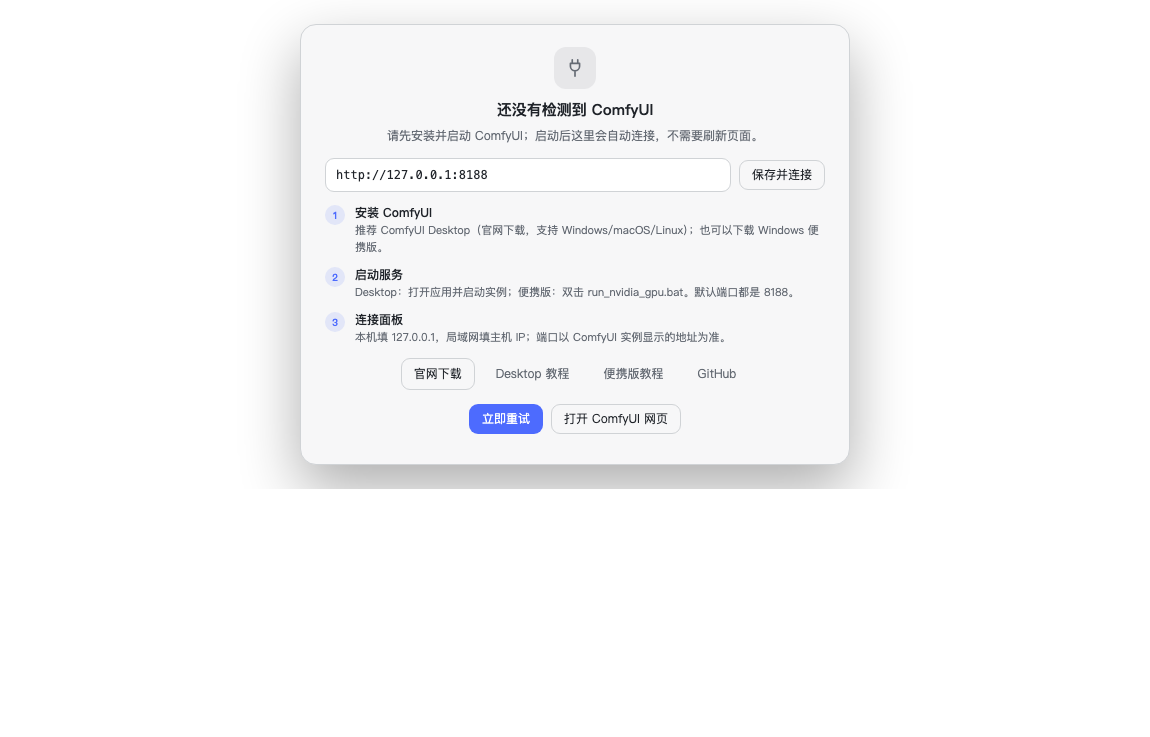
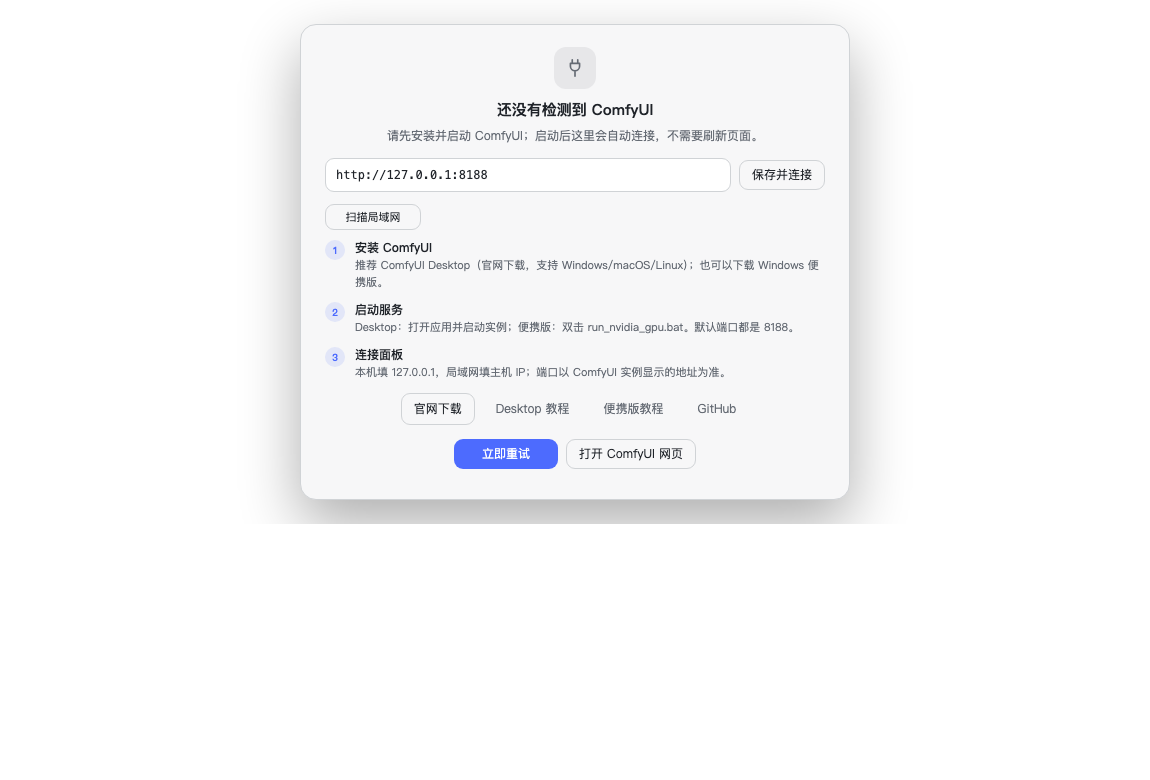
Add LAN scan back to first-run and release 0.3.2

Changed region(s): [[0.2739, 0.1248, 0.7304, 0.6866], [0.487, 0.0624, 0.5174, 0.0936]]

diff --git a/lib/client.js b/lib/client.js
@@ -282,6 +282,10 @@ window.__ModuleLoader__.load({
       'offline.savedAddress': '地址已保存，正在连接…',
       'offline.invalidAddress': '地址格式不对，示例：http://192.168.1.10:8188',
       'offline.connectFailed': '连接失败，请确认 ComfyUI 已启动、地址和端口正确。',
+      'offline.discover': '扫描局域网',
+      'offline.discovering': '正在扫描…',
+      'offline.discoverEmpty': '没有发现 ComfyUI，请确认服务已启动并允许局域网访问。',
+      'offline.discoverFailed': '扫描失败：{message}',
       'offline.step1Title': '安装 ComfyUI',
       'offline.step1': '推荐 ComfyUI Desktop（官网下载，支持 Windows/macOS/Linux）；也可以下载 Windows 便携版。',
       'offline.step2Title': '启动服务',
@@ -538,6 +542,10 @@ window.__ModuleLoader__.load({
       'offline.savedAddress': 'Address saved, connecting…',
       'offline.invalidAddress': 'Invalid address, e.g. http://192.168.1.10:8188',
       'offline.connectFailed': 'Connection failed. Check that ComfyUI is running, with the right address and port.',
+      'offline.discover': 'Scan LAN',
+      'offline.discovering': 'Scanning…',
+      'offline.discoverEmpty': 'No ComfyUI found. Check that it is running and allows LAN access.',
+      'offline.discoverFailed': 'Scan failed: {message}',
       'offline.step1Title': 'Install ComfyUI',
       'offline.step1': 'We recommend ComfyUI Desktop (Windows/macOS/Linux); the Windows portable build also works.',
       'offline.step2Title': 'Start the server',
@@ -668,6 +676,15 @@ window.__ModuleLoader__.load({
 .cs-offline-head { text-align: center; margin-bottom: 12px; }
 .cs-offline-edit { display: flex; flex-direction: column; gap: 8px; margin: 4px 0 12px; text-align: left; }
 .cs-offline-edit-line { display: flex; align-items: center; gap: 8px; }
+.cs-offline-edit-actions { display: flex; align-items: center; gap: 8px; margin-top: 6px; }
+.cs-offline-edit-actions .cs-btn { height: 26px; font-size: 11px; min-width: 96px; }
+.cs-offline-found { display: flex; flex-direction: column; gap: 4px; margin-top: 6px; }
+.cs-offline-found button {
+  text-align: left; font: inherit; font-size: 11px; cursor: pointer; padding: 5px 8px;
+  border-radius: 7px; border: 1px solid var(--dsw-alias-border-l1);
+  background: var(--dsw-alias-bg-layer-2); color: var(--dsw-alias-label-primary);
+}
+.cs-offline-found button:hover { border-color: var(--dsw-alias-brand-primary, #4d6bfe); }
 .cs-offline-input {
   flex: 1; min-width: 0; height: 32px; padding: 0 10px;
   border: 1px solid var(--dsw-alias-border-l2); border-radius: 9px;
@@ -3620,6 +3637,9 @@ window.__ModuleLoader__.load({
       const [loraOptions, setLoraOptions] = React.useState(null);
       const [connectionError, setConnectionError] = React.useState('');
       const [addressDraft, setAddressDraft] = React.useState('');
+      const [discoveryPort, setDiscoveryPort] = React.useState(8188);
+      const [discoverBusy, setDiscoverBusy] = React.useState(false);
+      const [discovered, setDiscovered] = React.useState([]);
       const [offlineAttempts, setOfflineAttempts] = React.useState(0);
       const [offlineRetrying, setOfflineRetrying] = React.useState(false);
       const [offlineShown, setOfflineShown] = React.useState(false);
@@ -3843,6 +3863,7 @@ window.__ModuleLoader__.load({
             const config = await requestJson('/config');
             if (cancelled) return;
             const hostDefault = typeof config.defaultBaseUrl === 'string' ? config.defaultBaseUrl : '';
+            if (Number.isFinite(config.discoveryPort)) setDiscoveryPort(Number(config.discoveryPort));
             let saved = settingsRef.current.baseUrl;
             // 0.3.1 briefly auto-probed localhost:8000 for the old Desktop
             // assumption; drop that saved value so it does not stick forever.
@@ -4675,9 +4696,31 @@ window.__ModuleLoader__.load({
         }
         updateSettings({ baseUrl: value });
         setAddressDraft(value);
+        setDiscovered([]);
         notify('ok', t('offline.savedAddress'));
         if (value === baseUrl) void retryConnection();
         else setBaseUrl(value);
+      };
+
+      /**
+       * Scan the local network for reachable ComfyUI servers.
+       * @returns {Promise<void>}
+       */
+      const scanLan = async () => {
+        if (discoverBusy) return;
+        setDiscoverBusy(true);
+        setDiscovered([]);
+        try {
+          const data = await requestJson(withQuery('/discover', { port: discoveryPort }));
+          if (!mounted.current) return;
+          const found = Array.isArray(data.found) ? data.found : [];
+          setDiscovered(found);
+          if (found.length === 0) notify('warn', t('offline.discoverEmpty'));
+        } catch (error) {
+          if (mounted.current) notify('error', t('offline.discoverFailed', { message: describeError(error) }));
+        } finally {
+          if (mounted.current) setDiscoverBusy(false);
+        }
       };
 
       /**
@@ -4747,6 +4790,18 @@ window.__ModuleLoader__.load({
                 onClick: () => saveAddress(addressDraft),
                 disabled: addressDraft.trim() === '',
               }, t('offline.saveAddress')))),
+            h('div', { className: 'cs-offline-edit-actions' },
+              h('button', {
+                type: 'button', className: 'cs-btn cs-btn--secondary',
+                onClick: () => { void scanLan(); },
+                disabled: discoverBusy,
+              }, discoverBusy ? t('offline.discovering') : t('offline.discover'))),
+            discovered.length === 0 ? null : h('div', { className: 'cs-offline-found' },
+              discovered.map((server, index) => h('button', {
+                key: `${server.baseUrl}:${index}`,
+                type: 'button',
+                onClick: () => saveAddress(server.baseUrl),
+              }, `${server.baseUrl}${typeof server.version === 'string' ? ` · ${server.version}` : ''}`))),
           configMissing ? null : h(Fragment, null,
             h('div', { className: 'cs-offline-step' },
               h('span', { className: 'cs-offline-step-num' }, '1'),

diff --git a/lib/comfy.js b/lib/comfy.js
@@ -14,7 +14,7 @@ export const PLUGIN_ID = 'comfyui-panel';
 /** Package name; the Client loader id must equal it. */
 export const PACKAGE_NAME = 'dsh-comfyui-studio';
 /** Version reported by health routes. */
-export const PLUGIN_VERSION = '0.3.1';
+export const PLUGIN_VERSION = '0.3.2';
 
 const DEFAULT_TIMEOUT_MS = 8000;
 const VIEW_TIMEOUT_MS = 30000;

diff --git a/README.md b/README.md
@@ -55,7 +55,7 @@
 - **ComfyUI Desktop**：打开应用并启动实例，默认端口 `8188`；
 - **Windows 便携版**：双击 `run_nvidia_gpu.bat`，默认端口 `8188`。
 
-如果地址不一致，直接在输入框里改成正确地址（支持 `192.168.1.10:8188` 写法），点「保存并连接」。地址保存在浏览器本地，之后每 5 秒自动重连。
+如果地址不一致，直接在输入框里改成正确地址（支持 `192.168.1.10:8188` 写法），点「保存并连接」；也可以点「扫描局域网」自动找同网段的服务。地址保存在浏览器本地，之后每 5 秒自动重连。
 
 ![首次使用引导](https://raw.githubusercontent.com/xingyeai23/dsh-comfyui-studio/main/docs/screenshot-offline.png)
 

diff --git a/README.en.md b/README.en.md
@@ -52,7 +52,7 @@ Start ComfyUI:
 - **ComfyUI Desktop**: launch an instance; default port `8188`;
 - **Windows portable**: run `run_nvidia_gpu.bat`; default port `8188`.
 
-If the address differs, edit it in the input (e.g. `192.168.1.10:8188`) and press **Save and connect**. The address is remembered and reconnects every 5 seconds.
+If the address differs, edit it in the input (e.g. `192.168.1.10:8188`) and press **Save and connect**, or press **Scan LAN** to find a server on the same network. The address is remembered and reconnects every 5 seconds.
 
 ![First run](https://raw.githubusercontent.com/xingyeai23/dsh-comfyui-studio/main/docs/screenshot-offline.png)
 

diff --git a/CHANGELOG.md b/CHANGELOG.md
@@ -1,5 +1,11 @@
 # Changelog
 
+## 0.3.2 - 2026-11-08
+
+- Add a "Scan LAN" button to the first-run screen; found ComfyUI servers can be selected with one click.
+- Keep the retry action buttons stable while reconnecting.
+- Correct the first-run examples: ComfyUI Desktop and the Windows portable build both default to port 8188 (with 8000 references removed).
+
 ## 0.3.1 - 2026-11-07
 
 - Docs: shorter README focused on install/first use, with screenshots; API/design/troubleshooting/model docs split into `docs/`.
